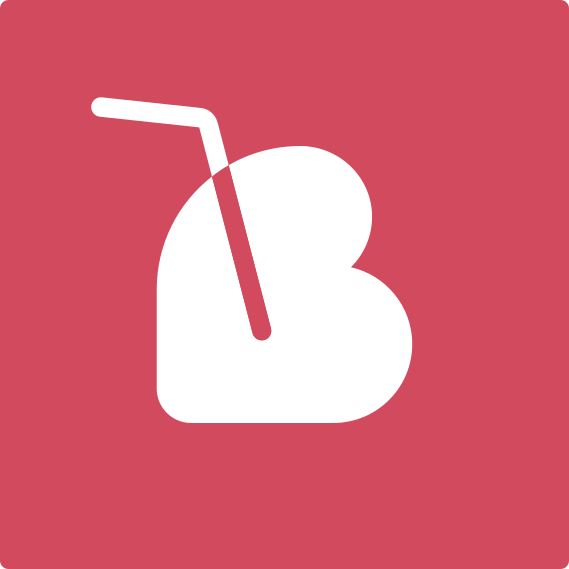
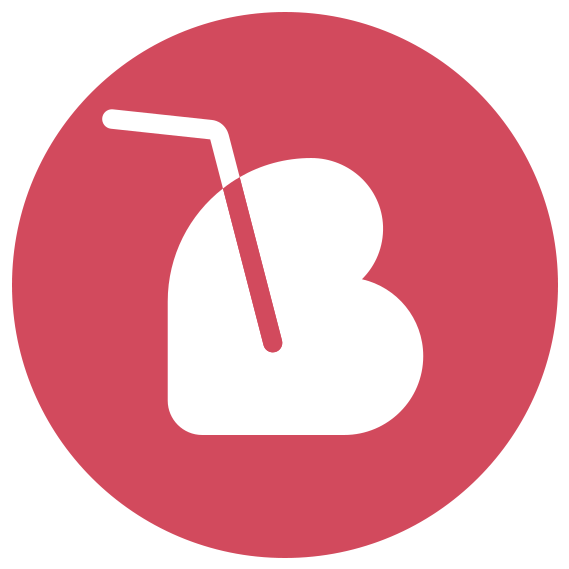
stable

diff --git a/CHANGELOG.md b/CHANGELOG.md
@@ -2,34 +2,18 @@
 
 - Initial release
 
-## [0.1.1] - 07/12/2022
+## [0.1.1 -> 0.1.13] - 07/12/2022
 
-- Update to 0.1.1 to fix a bug in the README.md and modify a couple of colors to make it more readable.
+- Fix a bug in the README.md and modify a couple of colors to make it more readable - jsx language.
 
-## [0.1.2] - 07/12/2022
+## [0.1.14 -> 0.1.18] - 08/12/2022
 
-- Update to 0.1.2 to modify a couple of colors to make it more readable and to change some fontstyles.
+- Modify a couple of colors to make it more readable - c language.
 
-## [0.1.3] - 07/12/2022
+## [0.1.19 -> 0.1.20] - 08/12/2022
 
-- Update to 0.1.3 to modify logs.
+- Modify a couple of colors to make it more readable - css & c languages.
 
-## [0.1.4] - 07/12/2022
+## [0.2.0] - 08/12/2022
 
-- Update to 0.1.4 to modify colors for js/ts.
-
-## [0.1.5] - 07/12/2022
-
-- Update to 0.1.5 to modify colors and fontstyles for variables.
-
-## [0.1.6] - 07/12/2022
-
-- Update to 0.1.6 to modify colors and fontstyles for variables.
-
-## [0.1.7] - 07/12/2022
-
-- Update to 0.1.7 to modify colors and fontstyles for variables.
-
-## [0.1.8] - 07/12/2022
-
-- Update to 0.1.8 to modify colors and fontstyles for variables.
+- Stable release of the theme & rounded icon.
